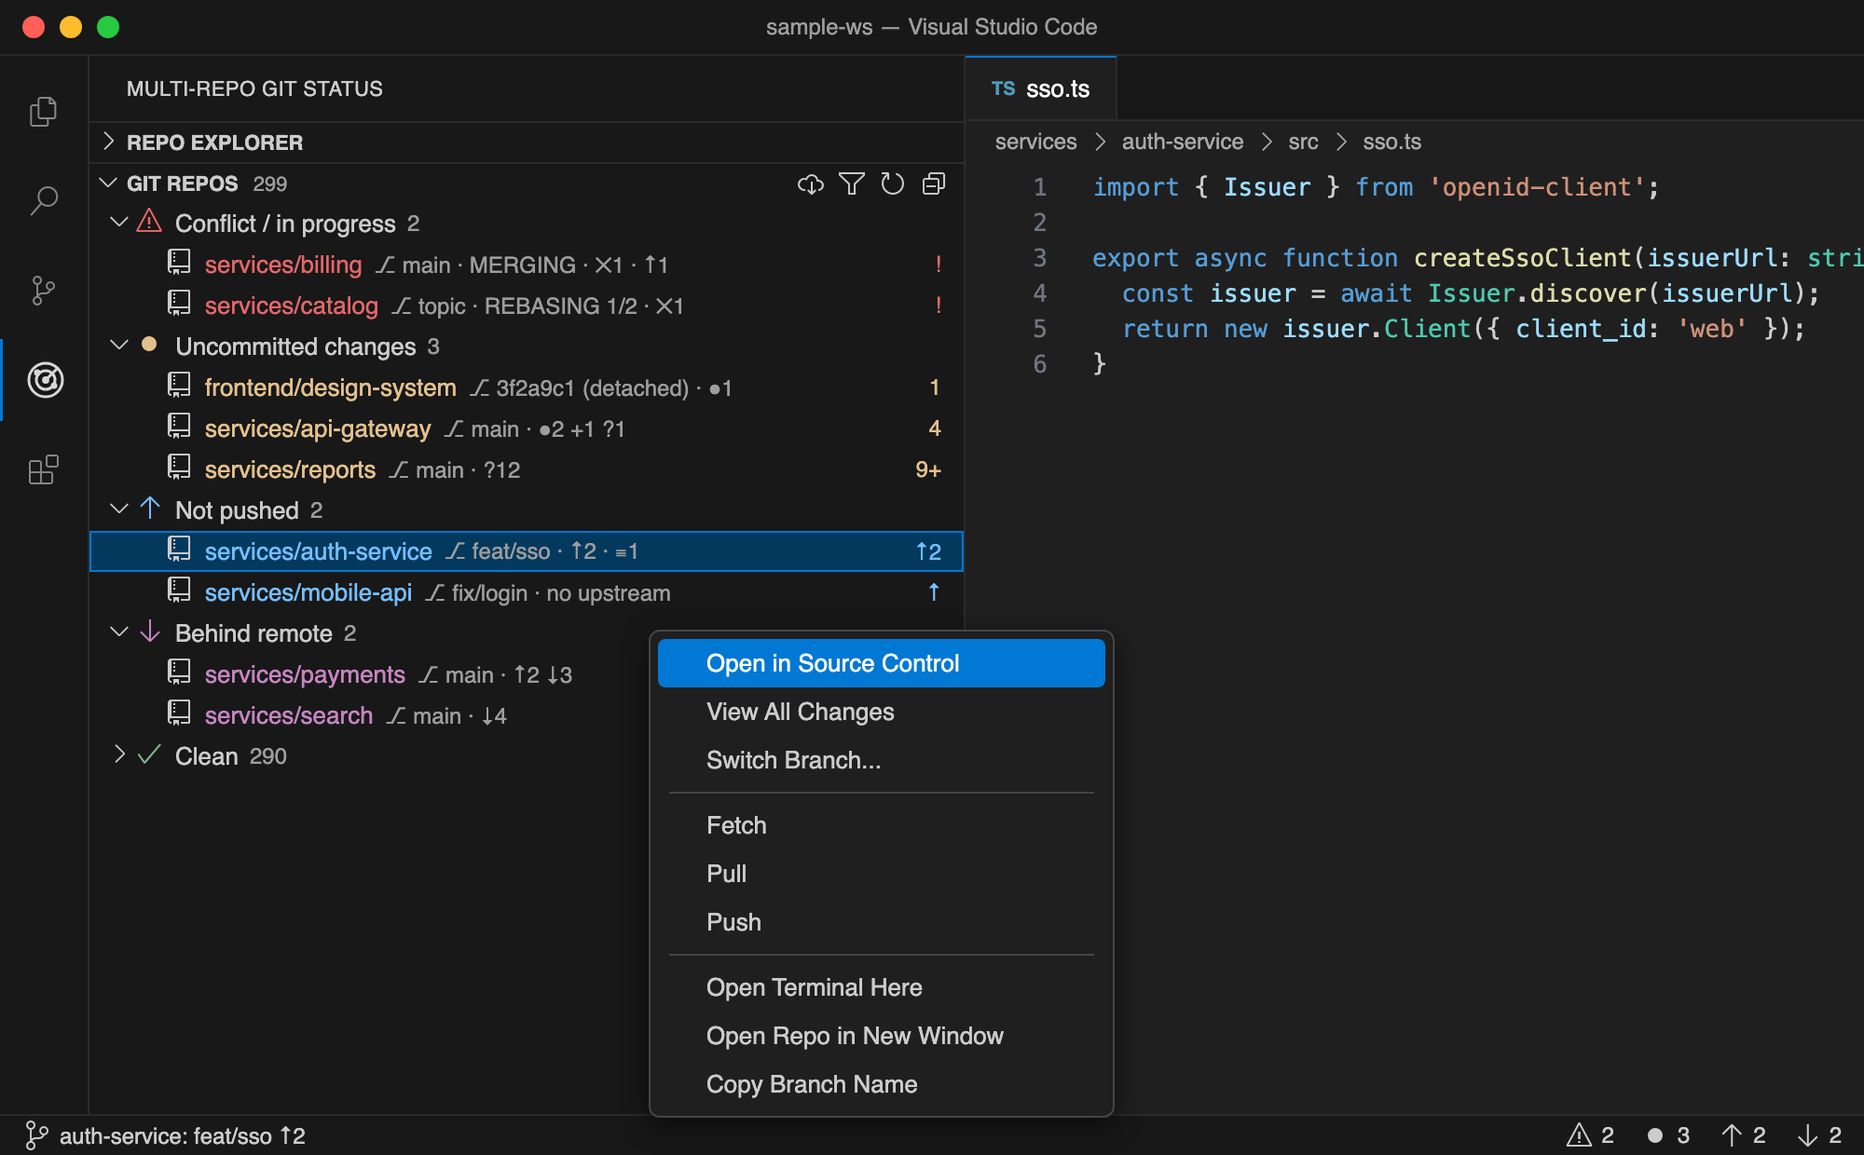
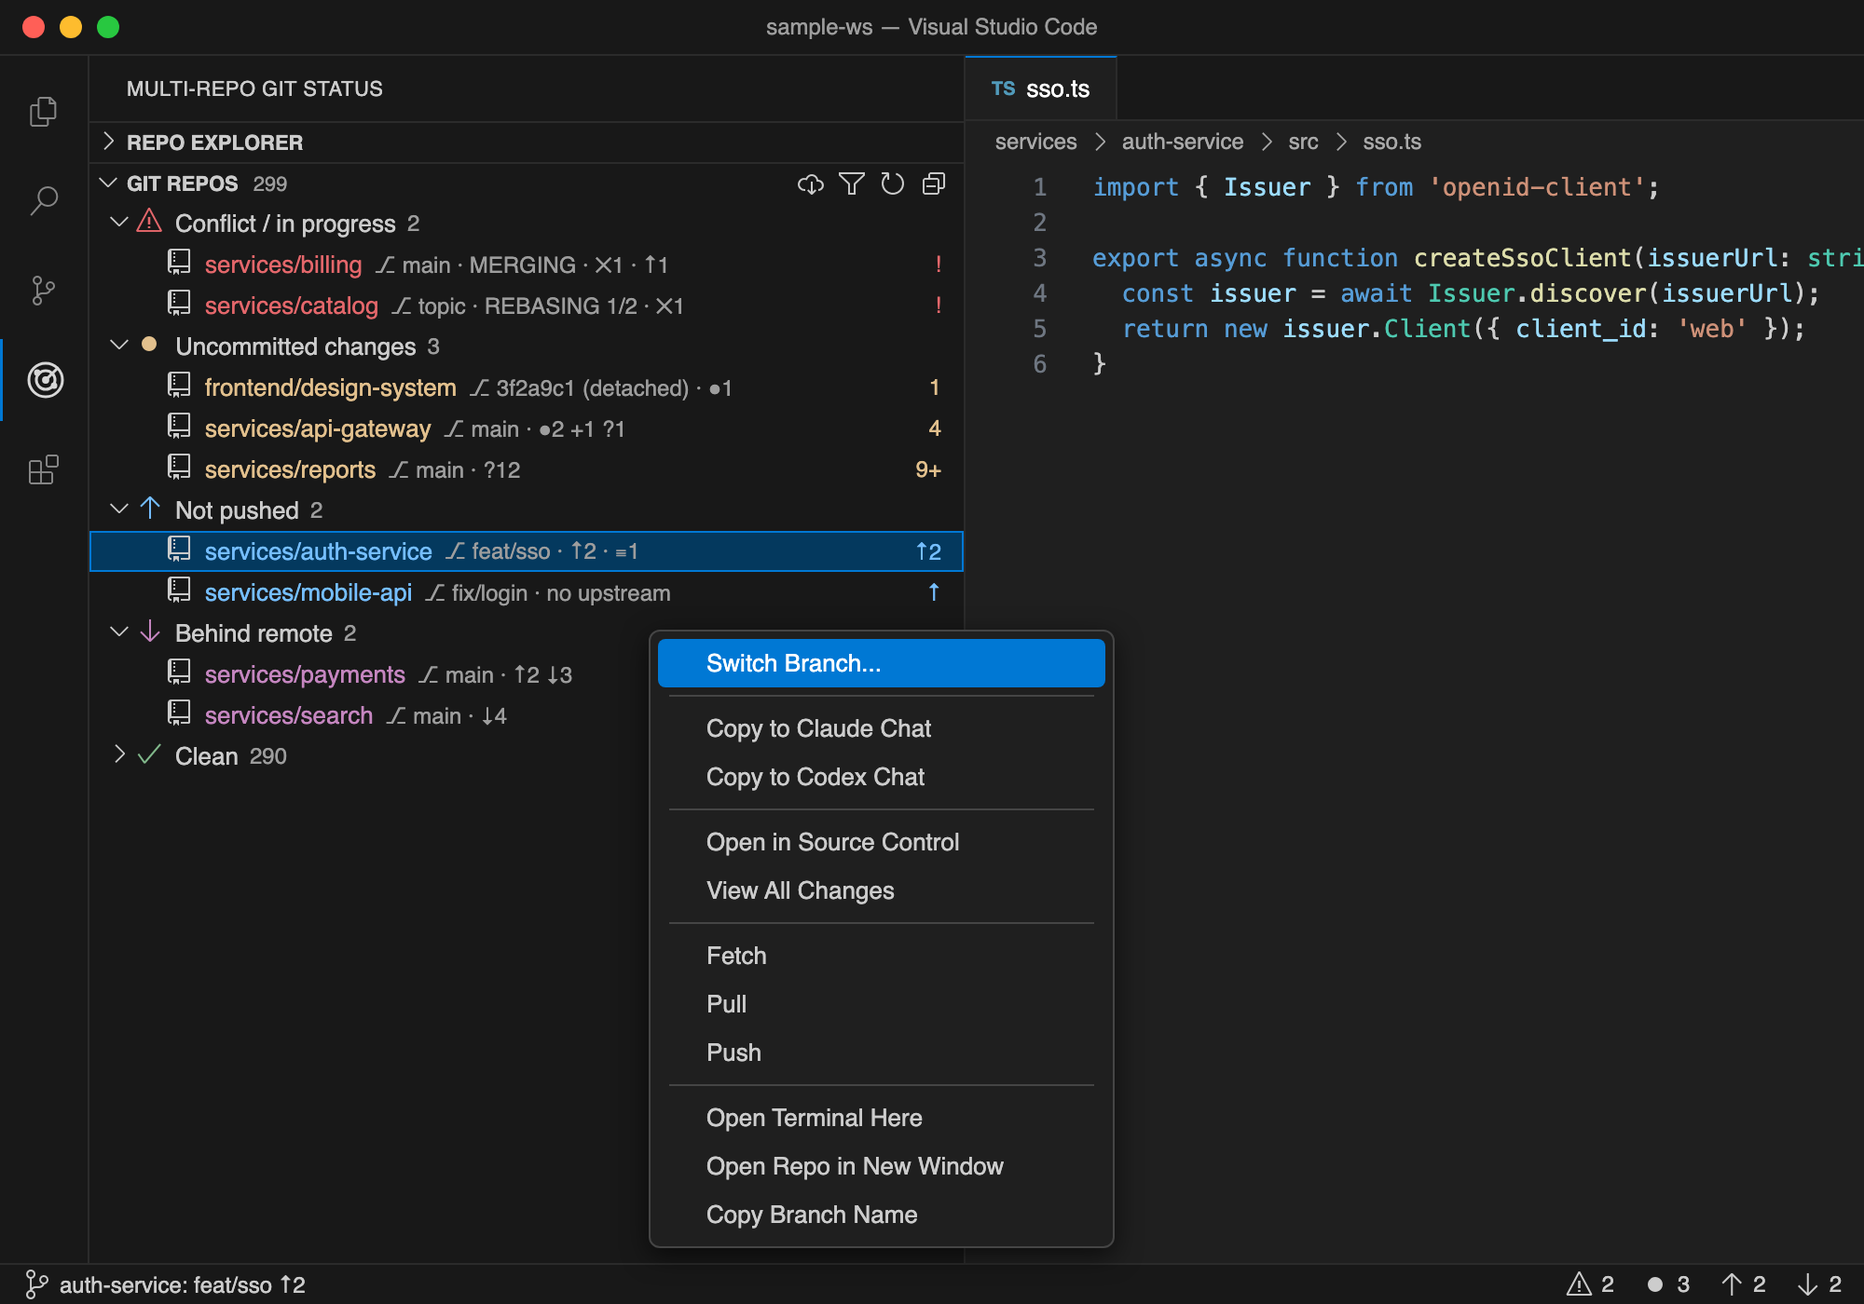
Refresh the README for everything the extension does now
Rewrites the README around the current features: a quick start and
table of contents, reviewing changes, the new branch picker, the
right-click menus for repos, files and folders, sending files to
Claude Code or Codex, what the extension changes in your repos (only
on request), troubleshooting, light theme screenshots, and the chat
test suite for development. The menu image now matches the current
menu, and a branch picker image is added.

diff --git a/README.md b/README.md
@@ -2,7 +2,7 @@
 
 **A VS Code extension that shows the branch and git status of every repository in your workspace — at a glance, even with hundreds of repos.**
 
-If you keep many git repos in one folder (microservices, a polyrepo, a `~/projects` folder…), it's hard to remember which repo is on which branch, which ones have uncommitted work, and which ones you forgot to push. This extension puts all of that next to the folder names.
+If you keep many git repos in one folder (microservices, a polyrepo, a `~/projects` folder…), it's hard to remember which repo is on which branch, which ones have uncommitted work, and which ones you forgot to push. This extension writes all of that next to the folder names, lets you narrow the tree down to what changed, and lets you review, switch branches, or hand files to an AI chat from a right-click.
 
 ![Repo Explorer and Git Repos views](docs/images/overview.png)
 
@@ -10,14 +10,43 @@ If you keep many git repos in one folder (microservices, a polyrepo, a `~/projec
 2. **Git Repos**: every repo, grouped by what needs your attention. Problems are listed first.
 3. **Status bar**: the branch of the repo you're editing in (left) and totals for all repos (right).
 
+## Contents
+
+- [Quick start](#quick-start)
+- [Features](#features)
+  - [See every repo's branch and status](#see-every-repos-branch-and-status)
+  - [Show only what changed](#show-only-what-changed)
+  - [Review a change](#review-a-change)
+  - [Switch branches](#switch-branches)
+  - [Right-click menus](#right-click-menus)
+  - [Send files to Claude Code or Codex](#send-files-to-claude-code-or-codex)
+  - [Badges in the built-in Explorer (optional)](#badges-in-the-built-in-explorer-optional)
+  - [Light and dark themes](#light-and-dark-themes)
+- [What the symbols mean](#what-the-symbols-mean)
+- [Install](#install)
+- [Settings](#settings)
+- [What it does to your repos](#what-it-does-to-your-repos)
+- [Performance](#performance)
+- [Troubleshooting](#troubleshooting)
+- [Known limitations](#known-limitations)
+- [Development](#development)
+
+## Quick start
+
+1. [Install the extension](#install).
+2. Open the folder that holds your repos (**File → Open Folder…**).
+3. Click the **Multi-Repo Git Status** icon (a radar) in the Activity Bar.
+
+Repos are found automatically, up to 3 folder levels deep. Every repo shows its branch right away; the rest of its status fills in within a few seconds.
+
 ## Features
 
 ### See every repo's branch and status
 
-Open the **Multi-Repo Git Status** icon in the Activity Bar.
-
-- **Repo Explorer** works like the normal Explorer: expand folders and click files to open them. Each repo shows its branch and status after its name. Folders that contain repos show a summary like `9 repos · !2 ●2 ↑2 ↓2`, so you can tell what's inside without expanding them.
-- **Git Repos** lists every repo, grouped: *Conflict / in progress*, *Uncommitted changes*, *Not pushed*, *Behind remote*, *Clean*. Click the filter icon to find a repo by path or branch name.
+- **Repo Explorer** works like the normal Explorer: expand folders and click files to open them. Each repo shows its branch and status after its name. Folders that contain repos show a summary like `9 repos · !2 ●2 ↑2 ↓2`, so you can tell what's inside without expanding them. Changed files carry the same letters as Source Control (`M`, `A`, `U`…).
+- **Git Repos** lists every repo, grouped: *Conflict / in progress*, *Uncommitted changes*, *Not pushed*, *Behind remote*, *Clean*. Use the filter icon in its title bar to find a repo by path or branch name. Hover a row for buttons to open it in Source Control or in a terminal.
+- **Status bar**: the left item shows the branch of the file you're editing; click it to open that repo in Source Control. The right item counts repos by state; click it to jump to Git Repos.
+- **Tooltips**: hover a repo for the full picture — upstream, ahead/behind, changed files, stashes, and when it was last fetched.
 
 ### Show only what changed
 
@@ -31,43 +60,63 @@ The **Repo Explorer** title bar has three filter buttons. Click one to turn it o
 
 ![Repo Explorer filtered to changed files](docs/images/filter.png)
 
-Changed files get the same letters as VS Code's Source Control: `M` modified, `A` added, `D` deleted, `R` renamed, `U` untracked, `!` conflict. The filter is remembered per workspace.
+Changed files get the same letters as VS Code's Source Control: `M` modified, `A` added, `D` deleted, `R` renamed, `U` untracked, `!` conflict. Next to the letter you may see `staged`, `partly staged`, or `conflict`. The filter is remembered per workspace.
 
-**Click a changed file to review it.** It opens a diff of the last commit (`HEAD`) against your working copy, so you see staged and unstaged changes together. New files show as fully added, and deleted files as fully removed. Files with conflicts open as normal files so you can resolve them. To open the file itself, use the **Open File** button on its row.
+To search files by name or content, use VS Code's own **Search** view (<kbd>Cmd</kbd>/<kbd>Ctrl</kbd>+<kbd>Shift</kbd>+<kbd>F</kbd>). Put a repo's path in *files to include* to search just that repo.
+
+### Review a change
+
+With **Changed files** on, **click a file to review it.** It opens a diff of the last commit (`HEAD`) against your working copy, so you see staged and unstaged changes together.
 
 ![Diff of a changed file, opened from the Repo Explorer](docs/images/diff.png)
 
-Added lines are green and removed lines are red. Within a changed line, the exact part that changed is highlighted. The diff opens as a preview tab, so clicking the next file replaces it instead of piling up tabs. To review every changed file of a repo in one tab, right-click the repo and choose **View All Changes**.
+- Added lines are green and removed lines are red. Within a changed line, the exact part that changed is highlighted.
+- New files show as fully added and deleted files as fully removed. Renamed files are compared with their old name.
+- Files with conflicts open as normal files, so you can resolve them.
+- The diff opens as a preview tab, so clicking the next file replaces it instead of piling up tabs.
+- To edit the file, use the **Open File** button on its row.
+- To review every changed file of a repo in one tab, right-click the repo and choose **View All Changes**.
 
-### Badges in the built-in Explorer (optional)
+### Switch branches
 
-The built-in Explorer is left unchanged by default. Turn on `multiRepoGit.decorateExplorer` to also give repo folders there a color, a short badge, a tooltip, and a **Git Repo** right-click menu.
+Right-click a repo and choose **Switch Branch…** (the first item in the menu).
 
-![Badges and tooltip in the built-in Explorer](docs/images/explorer.png)
+![Branch picker](docs/images/switch-branch.png)
 
-> VS Code lets extensions show only a color and a badge of up to two characters in the built-in Explorer. To see branch names next to folders, use **Repo Explorer**.
+- **Local branches** are listed newest first, with how far each is ahead of or behind its upstream, and whether the upstream was deleted.
+- **Remote branches** you haven't checked out yet are listed after them. Picking one creates a local branch that tracks it.
+- **Create new branch…** starts a branch from where you are; **Create new branch from…** lets you pick another branch to start from. Names are checked against git's rules as you type.
+- **Uncommitted changes** come along to the new branch when git allows it. If they would be overwritten, you're asked whether to **Stash and Switch**; your changes are kept in a stash that you can bring back with `git stash pop`.
+- Switching is refused while a merge or rebase is in progress, so you finish or abort it first.
 
-### Right-click a repo
+### Right-click menus
 
 ![Right-click menu on a repo](docs/images/menu.png)
 
+On a **repo**:
+
 | Command | What it does |
 | --- | --- |
+| Switch Branch… | Picks a branch to switch to, or creates one ([details](#switch-branches)) |
+| Copy to Claude Chat / Copy to Codex Chat | Copies `@path/` for the chat ([details](#send-files-to-claude-code-or-codex)) |
 | Open in Source Control | Opens the repo in VS Code's Git and shows the Source Control view |
 | View All Changes | Opens every changed file of the repo in one diff view |
-| Switch Branch… | Lists local branches (newest first, with how far each is ahead or behind) and remote branches you haven't checked out, and switches to the one you pick. Picking a remote branch creates a local branch that tracks it. You can also create a new branch here. If your uncommitted changes would be overwritten, it offers to stash them first |
 | Fetch / Pull / Push | Runs the git command for this repo. Push sets an upstream if the branch has none |
 | Open Terminal Here | Opens a terminal in the repo folder |
 | Open Repo in New Window | Opens just this repo in a new VS Code window |
 | Copy Branch Name | Copies the current branch name |
 
-With `multiRepoGit.decorateExplorer` on, the same commands are also in the built-in Explorer, under **Git Repo** when you right-click a repo folder.
+Fetch shows only for repos with a remote, Pull only for branches with an upstream, and Push only when there is something to push.
 
-The toolbar of the **Git Repos** view also has **Fetch All Repos**, **Filter Repos**, and **Refresh**.
+On a **file**: **Add to Claude Chat** / **Add to Codex Chat**, and for changed files **Open Changes** and **Open File**.
+
+On a **folder**: **Copy to Claude Chat** / **Copy to Codex Chat**, and **Scan This Folder** for folders deeper than the scan limit.
+
+The title bar of **Git Repos** has **Fetch All Repos**, **Filter Repos**, and **Refresh**. All of these are also in the Command Palette under *Multi-Repo Git Status*.
 
 ### Send files to Claude Code or Codex
 
-If you have [Claude Code](https://marketplace.visualstudio.com/items?itemName=anthropic.claude-code) or [Codex](https://marketplace.visualstudio.com/items?itemName=openai.chatgpt) installed, right-click in the Repo Explorer to hand files to its chat. Select several rows first (<kbd>Cmd</kbd>/<kbd>Ctrl</kbd>+click or <kbd>Shift</kbd>+click) to send them all at once. Combined with the **Changed files** button, this makes it quick to ask for a review of what you're about to push.
+If you have [Claude Code](https://marketplace.visualstudio.com/items?itemName=anthropic.claude-code) or [Codex](https://marketplace.visualstudio.com/items?itemName=openai.chatgpt) installed, right-click in the Repo Explorer to hand files to its chat. Select several rows first (<kbd>Cmd</kbd>/<kbd>Ctrl</kbd>+click or <kbd>Shift</kbd>+click) to send them all at once. Together with the **Changed files** button, this makes it quick to ask for a review of what you're about to push.
 
 ![Adding changed files to the chat](docs/images/chat.png)
 
@@ -76,9 +125,30 @@ If you have [Claude Code](https://marketplace.visualstudio.com/items?itemName=an
 | A file | **Add to Claude Chat** / **Add to Codex Chat** | The file is added to the chat's message box |
 | A folder or repo | **Copy to Claude Chat** / **Copy to Codex Chat** | `@path/` is copied and the chat is opened. Paste it with <kbd>Cmd</kbd>/<kbd>Ctrl</kbd>+<kbd>V</kbd> |
 
-Nothing is sent until you press <kbd>Enter</kbd> in the chat. Folders are copied rather than added because neither extension offers a way to add a folder for you. Each menu item only appears when that extension is installed.
+- Nothing is sent until you press <kbd>Enter</kbd> in the chat.
+- Folders are copied rather than added because neither extension offers a way to add a folder for you.
+- Each menu item only appears when that extension is installed.
+- Claude Code can only mention the file open in the editor, so **Add to Claude Chat** briefly opens each file in a preview tab first. If a chat extension refuses a file, its `@path` is copied instead.
 
-> Claude Code can only mention the file open in the editor, so **Add to Claude Chat** briefly opens each file in a preview tab first. If a chat extension refuses a file, its `@path` is copied instead.
+Tested with Claude Code 2.1.318 and Codex 26.1021. Both extensions decide how they show what they receive, so this may change as they update.
+
+### Badges in the built-in Explorer (optional)
+
+The built-in Explorer is left unchanged by default. Turn on `multiRepoGit.decorateExplorer` to also give repo folders there a color, a short badge, a tooltip, and a **Git Repo** right-click menu with the repo commands above.
+
+![Badges and tooltip in the built-in Explorer](docs/images/explorer.png)
+
+> VS Code lets extensions show only a color and a badge of up to two characters in the built-in Explorer. To see branch names next to folders, use **Repo Explorer**.
+
+### Light and dark themes
+
+Colors come from your theme. Changed files use the theme's own git colors (the same as the built-in Explorer and Source Control), and repo states use colors with separate light, dark, and high-contrast values. The screenshots above use *Dark Modern*; here is the same workspace with *Light Modern*:
+
+![Repo Explorer and Git Repos with a light theme](docs/images/overview-light.png)
+
+![Reviewing a change with a light theme](docs/images/diff-light.png)
+
+To change any of these colors, see [Settings](#settings).
 
 ## What the symbols mean
 
@@ -108,8 +178,10 @@ When a repo has several states at once, the badge shows the most important one. 
 | `↑2 ↓3` | 2 commits to push, 3 to pull |
 | `≡1` | 1 stash entry |
 | `MERGING`, `REBASING 1/2` | An operation is in progress (rebase step 1 of 2) |
+| `no upstream` | The branch has never been pushed |
+| `submodule` | The repo is a submodule of the repo around it |
 
-Other folders show `no git` (no repos inside), `not scanned` (deeper than the scan limit; right-click and choose **Scan This Folder**), or `excluded`.
+Folders that aren't repos show `no git` (no repos inside), `not scanned` (deeper than the scan limit; right-click and choose **Scan This Folder**), or `excluded`. Local-only repos without a remote are never flagged as unpushed.
 
 ## Install
 
@@ -123,9 +195,11 @@ npx @vscode/vsce package
 code --install-extension multi-repo-git-status-0.0.1.vsix
 ```
 
-Requirements: VS Code 1.95 or later, Node.js 20 or later, and `git` on your `PATH`.
+Then run **Developer: Reload Window** in VS Code.
 
-To uninstall:
+Requirements: VS Code 1.95 or later, Node.js 20 or later (to build), and `git` on your `PATH` (or set in `git.path`).
+
+To update, pull the latest code, build again, and install with `--force`. To uninstall:
 
 ```bash
 code --uninstall-extension local.multi-repo-git-status
@@ -154,6 +228,12 @@ You can change the colors with `workbench.colorCustomizations`:
 
 Available colors: `multiRepoGit.conflictForeground`, `multiRepoGit.dirtyForeground`, `multiRepoGit.aheadForeground`, `multiRepoGit.behindForeground`, `multiRepoGit.pendingForeground`, `multiRepoGit.errorForeground`.
 
+## What it does to your repos
+
+Showing status only **reads** your repos. It never changes files, branches, or the index, and it never takes git's `index.lock`, so it can't get in the way of your own git commands.
+
+Your repos are changed only when you ask, with these commands: **Switch Branch…** (and **Stash and Switch** when you confirm it), **Fetch**, **Pull**, **Push**, and **Fetch All Repos**. Nothing is fetched or pushed in the background.
+
 ## Performance
 
 Tested with 300 repos: they are found in about 50 ms, every repo shows its branch right away, and all statuses are checked in about 4 seconds in the background.
@@ -161,33 +241,55 @@ Tested with 300 repos: they are found in about 50 ms, every repo shows its branc
 - **Branch and in-progress state** (merge, rebase…) are read directly from files in `.git`, without running git.
 - **`git status`** runs through a queue, a few at a time. Repos you're working in go first, then repos on screen, then the rest.
 - **Changes are picked up automatically**, including commits made in a terminal outside VS Code. The extension uses VS Code's own file watcher and debounces changes per repo.
-- **Your own git commands aren't blocked.** Status checks never take git's `index.lock`.
 - **Nothing is fetched automatically.** "Behind remote" is based on your last fetch. Use **Fetch All Repos** to update it.
+
+## Troubleshooting
+
+| Problem | What to try |
+| --- | --- |
+| A repo is missing | It may be deeper than `multiRepoGit.scanDepth`: look for `not scanned` on a folder above it and choose **Scan This Folder**, or raise the setting. Also check that its folder isn't in `multiRepoGit.exclude` |
+| A repo shows `⚠` | Hover it to see git's error. Open **View → Output** and pick *Multi-Repo Git Status* for the full log |
+| Checking is slow | Turn off `multiRepoGit.countUntracked`, or add big generated folders to `multiRepoGit.exclude` |
+| "Behind remote" looks wrong | It's based on your last fetch. Run **Fetch All Repos** |
+| Fetch or Push fails asking for a password | Commands run without a terminal, so set up a git credential helper or SSH key |
+| No **Add to Claude Chat** / **Add to Codex Chat** | Install that extension, then reload the window |
+
+The Output log also shows how many repos were found and how long it took.
 
 ## Known limitations
 
 - **Open in Source Control** shows the Source Control view but can't select the repo for you. VS Code has no API for that. Use **Open Repo in New Window** to get a Source Control view with only that repo.
+- The branch name can't be made clickable in the tree; use the right-click menu.
 - A repo nested inside another repo is only found if it's a submodule, or if the outer repo is itself a workspace folder.
+- Binary files open in the diff as text.
 - Only local folders are supported (not Remote SSH, WSL, or virtual workspaces).
 
 ## Development
 
 ```bash
 npm install
-npm test                                     # unit tests
+npm test                                          # unit tests
 scripts/make-sample-repos.sh /tmp/sample-ws 300   # sample workspace with repos in every state
-VSCODE_PATH="/Applications/Visual Studio Code.app/Contents/MacOS/Code" \
-  npm run test:integration -- /tmp/sample-ws # tests inside a real VS Code
+export VSCODE_PATH="/Applications/Visual Studio Code.app/Contents/MacOS/Code"
+npm run test:integration -- /tmp/sample-ws        # tests inside a real VS Code
+
+# Chat hand-off, with Claude Code and Codex copied into a separate extensions folder:
+mkdir -p /tmp/chat-ext && cp -R ~/.vscode/extensions/{anthropic.claude-code,openai.chatgpt}-* /tmp/chat-ext/
+npm run test:integration -- /tmp/sample-ws --chat /tmp/chat-ext
 ```
+
+If you run the integration tests from a terminal inside VS Code (or another Electron app), clear `ELECTRON_RUN_AS_NODE` first (`env -u ELECTRON_RUN_AS_NODE npm run …`). The chat tests borrow the system clipboard and put back what was there.
 
 Press <kbd>F5</kbd> in VS Code to run the extension in a new window.
 
 | Path | Contents |
 | --- | --- |
-| `src/core/` | Logic with no VS Code dependency: parsing `git status`, reading `.git`, the job queue, and the rules for which state and badge to show |
+| `src/core/` | Logic with no VS Code dependency: parsing `git status`, reading `.git`, discovery, the job queue, branches, filtering, and the rules for which state and badge to show |
 | `src/store.ts` | Keeps every repo's state up to date: discovery, refresh queue, file watching |
-| `src/views/` | Repo Explorer, Git Repos view, Explorer decorations, status bar |
+| `src/views/` | Repo Explorer, Git Repos view, decorations, status bar, and the read-only `HEAD` documents used for diffs |
 | `src/commands.ts` | Right-click and toolbar commands |
+| `src/chatTargets.ts` | Hand-off to Claude Code and Codex |
+| `src/test/`, `src/integration/` | Unit tests, and tests that run inside VS Code |
 
 ## License
 
